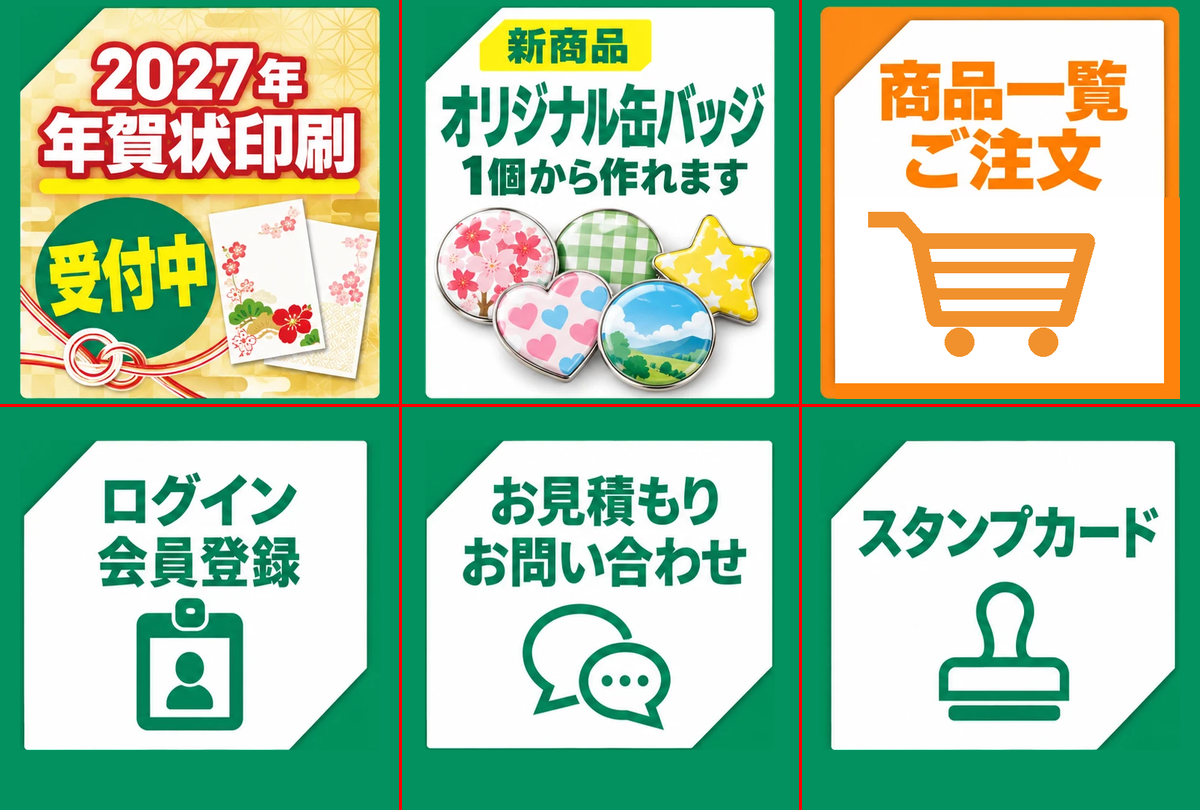
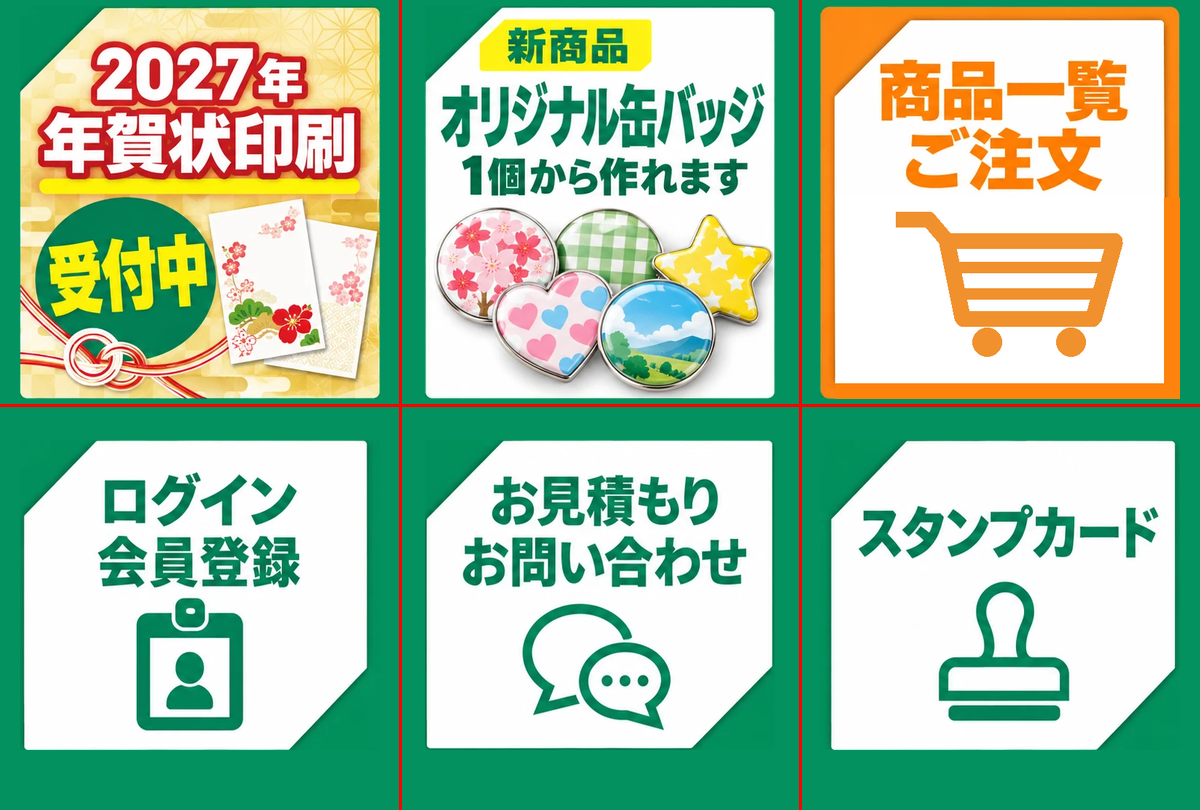
インクアート：11月リッチメニューのカートを枠の中心に

Changed region(s): [[0.7092, 0.2469, 0.9558, 0.463]]

diff --git a/_build/build_inkart_richmenu_202611.py b/_build/build_inkart_richmenu_202611.py
@@ -52,7 +52,7 @@ def redraw_cart(im):
     d.rectangle([in_l, top, x1, y1], fill=border)
     d.rectangle([in_l, top, in_r, in_b], fill=(255, 255, 255))
     # カート
-    cx = (in_l + in_r) // 2
+    cx = (in_l + in_r) // 2 + 38      # 取っ手が左に出るぶん右に寄せて、全体の中心を枠の中心に合わせる
     lw = 22
     bx0, bx1 = cx - 110, cx + 120     # かごの上辺
     by0, by1 = top + 60, top + 170    # かごの上下
